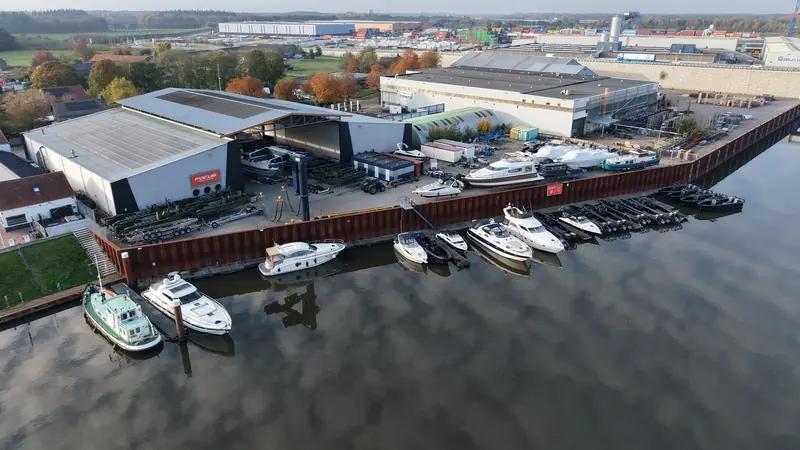
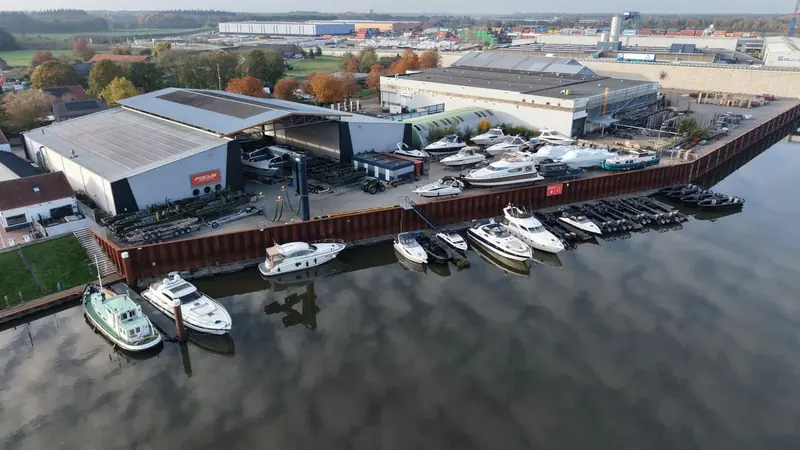
Cleaned-up aerial photo for hero, contact and slider; KvK, branch number and BTW on the site; Tilda publishing plan
Claude-Session: https://claude.ai/code/session_01EqonpUU16SJUeWH41v7eQd

Changed region(s): [[0.5, 0.28, 0.7188, 0.4044]]

diff --git a/boatlab-site/src/assets/site.js b/boatlab-site/src/assets/site.js
@@ -1,6 +1,6 @@
 /* ===== Settings: fill these in before going live ===== */
 const CONFIG = {
-  email: "info@boatlabservice.nl",              // TODO confirm address
+  email: "info@boatlabservice.nl",
   // Paste a Formspree form URL (https://formspree.io/f/xxxx) to receive bookings by email.
   formEndpoint: "",
   whatsapp: "31611742272",                     // WhatsApp number, digits only
@@ -9,8 +9,9 @@ const CONFIG = {
   instagram: "https://www.instagram.com/boatlab.nl/",
   tiktok: "https://www.tiktok.com/@boatlab.nl",
   // Dutch law requires the KvK number (and VAT number) on the website. Shown in the footer once filled in.
-  kvk: "",                                      // TODO KvK number
-  vat: "",                                      // TODO BTW/VAT number, e.g. NL000000000B01
+  kvk: "42025956",
+  branch: "000065289390",                      // Vestigingsnummer (KvK branch number)
+  vat: "NL869361193B01",
   maps: "https://maps.app.goo.gl/qaHuijy3DLmqtUjv5",
   // Shows grey placeholder cards in the reviews band until real reviews are added (preview only).
   reviewPlaceholders: false
@@ -862,7 +863,7 @@ document.addEventListener("pointerdown", e => {
 /* ---------- contact details ---------- */
 $$(".js-email").forEach(e => e.textContent = CONFIG.email);
 $$(".js-email-link").forEach(a => a.href = "mailto:" + CONFIG.email);
-$$(".js-kvk").forEach(e => { if (CONFIG.kvk) e.innerHTML = "<br>KvK: " + CONFIG.kvk; });
+$$(".js-kvk").forEach(e => { e.innerHTML = [CONFIG.kvk && "<br>KvK: " + CONFIG.kvk, CONFIG.vat && "<br>" + t("footer.vat") + ": " + CONFIG.vat].filter(Boolean).join(""); });
 $$(".js-ig").forEach(a => a.href = CONFIG.instagram);
 $$(".js-tt").forEach(a => a.href = CONFIG.tiktok);
 $$(".js-maps").forEach(a => a.href = CONFIG.maps);

diff --git a/boatlab-site/src/sections/hero.html b/boatlab-site/src/sections/hero.html
@@ -13,7 +13,7 @@
     </div>
     <div class="hero-media load d3">
       <div class="hero-frame">
-        <img src="img/hero-aerial.jpg" alt="The BoatLab yard in Wanssum from the air: the Focus Marine Center hall, the 30-tonne crane, boats on the quay and the harbour on the Maas" width="2400" height="1350" fetchpriority="high">
+        <img src="img/hero-aerial.jpg" alt="The BoatLab yard in Wanssum from the air: the Focus Marine Center hall, the 30-tonne crane, boats on the quay and the harbour on the Maas" width="2000" height="1125" fetchpriority="high">
         <div class="pins" id="heroPins">
           <div class="pin c5" data-x="24" data-y="30" data-n="1" style="--len:36px"><b class="num">1</b><span class="chip"><span class="ico"><svg><use href="#i-hall"/></svg></span><span><b data-i18n="chip.hall">Indoor hall</b><span data-i18n="chip.hall2">work in any weather</span></span></span></div>
           <div class="pin c4 below" data-x="27.5" data-y="40" data-n="2" style="--len:52px"><b class="num">2</b><span class="chip"><span class="ico f"><img src="img/logo-focus.png" alt="" width="500" height="89"></span><span><b data-i18n="chip.focus">Focus Marine Center</b><span data-i18n="chip.focus2">our partner yard</span></span></span></div>

diff --git a/boatlab-site/build.py b/boatlab-site/build.py
@@ -244,7 +244,9 @@ def jsonld_business(data, lang):
         "hasOfferCatalog": {"@type": "OfferCatalog", "name": tr(data, lang, "nav.services"), "itemListElement": services},
     }
     if data["CONFIG"].get("kvk"):
-        d["identifier"] = {"@type": "PropertyValue", "propertyID": "KvK", "value": data["CONFIG"]["kvk"]}
+        d["identifier"] = [{"@type": "PropertyValue", "propertyID": "KvK", "value": data["CONFIG"]["kvk"]}]
+        if data["CONFIG"].get("branch"):
+            d["identifier"].append({"@type": "PropertyValue", "propertyID": "Vestigingsnummer", "value": data["CONFIG"]["branch"]})
     if data["CONFIG"].get("vat"):
         d["vatID"] = data["CONFIG"]["vat"]
     return d
@@ -352,6 +354,8 @@ def page_html(data, lang, name, nav_id, body, title, desc, css, js, extra_ld="",
 """
     doc = translate(doc, data, lang)
     doc = prerender(doc, data, lang)
+    reg = " · ".join(x for x in [data["CONFIG"].get("kvk") and f'{tr(data, lang, "footer.kvk")} {data["CONFIG"]["kvk"]}', data["CONFIG"].get("vat") and f'{tr(data, lang, "footer.vat")} {data["CONFIG"]["vat"]}'] if x)
+    doc = doc.replace('<span id="regIds"></span>', f'<span id="regIds">{reg}</span>')
     return doc
 
 

diff --git a/PLAN.md b/PLAN.md
@@ -109,17 +109,44 @@ Report: https://claude.ai/artifact/9pUW5FMtJe9bpG48tWsxGV. Main findings, in pri
 8. Ads plan: brand campaign now; antifouling Feb–May; winter storage Sep–Nov; NL + DE, 40 km + NRW border; €15–25/day per language to start.
 9. Winter & dry storage added as the 15th service with its own page (30 Oct), worded as "on the quay, or indoors when space allows". Owner to confirm the offer and wording.
 
-## Publishing: Tilda and Claude
+## Publishing to Tilda (next big step)
 
-Goal: a proper, working page online as soon as possible, so visitors never land on an empty or broken page.
+Goal: boatlabservice.nl shows the new site, the **existing Tilda pages for marketing quizzes keep their URLs** so ads on social
+platforms still land where they should, and the form and tracking work end to end.
 
-- [ ] **Figure out how to connect Tilda and Claude.** Find the best way for Claude to get the site onto Tilda
-      (Tilda has no Claude connector yet; options: paste the generated `tilda/` pages into Tilda HTML blocks by hand,
-      Tilda's API (business plan, read-only export), a Zapier connection, or hosting the static `dist/` site elsewhere).
-- [ ] **Decide the publishing route** and write the steps down here, so every update follows the same path.
-- [ ] **Put a decent version live quickly** (even before every item below is finished), and replace any placeholder/default page on boatlabservice.nl.
-- [ ] **Check the live site works**: all pages, language switch, booking form, phone links, on mobile and desktop.
-- [ ] Keep the Claude preview link in step with what is live.
+**Step 0: inventory of what is on Tilda now (owner + Claude, 30 min)**
+- [ ] List every page in the Tilda project with its URL (Site settings → Pages). Mark which ones are used by running ads or posted links (quizzes, landing pages).
+- [ ] Note the current Tilda plan (Personal / Business) and whether the domain boatlabservice.nl is already connected to Tilda.
+- [ ] Export the quiz pages' current URLs into this file so nothing is lost. Those URLs are frozen: we never rename or delete them.
+
+**Step 1: decide the hosting route (recommendation below)**
+- Option A, everything in Tilda: paste each page of `boatlab-site/tilda/` into a Tilda page as one HTML block (T123), upload `img/`, `video/`,
+  `fonts/`, `assets/` to Tilda's file storage and rewrite the paths. Works on every Tilda plan, keeps one admin. Downsides: 36 pages to paste
+  and re-paste after every change, Tilda adds its own scripts, and URL folders (`/nl/`, `/de/`) must be written as Tilda page addresses
+  (Tilda allows `nl/antifouling` style addresses; verify on the current plan).
+- Option B (recommended), static host + Tilda side by side: publish `boatlab-site/dist/` as-is to a static host (Cloudflare Pages or Netlify,
+  free, deploys automatically from GitHub on every push). Point boatlabservice.nl at it. Keep the Tilda project on a subdomain
+  (e.g. `go.boatlabservice.nl` or `quiz.boatlabservice.nl`) and add redirects on the new site from every old quiz URL to its new address,
+  so old ad links keep working. Downsides: two places to log in; the owner needs a Cloudflare/Netlify account (Claude can set it up with the owner).
+- Either way the GitHub repo stays the single source; the preview artifact stays the review copy.
+
+**Step 2: forms and measurement (backend)**
+- [ ] Form delivery: Formspree (paid plan for photo uploads) → `CONFIG.formEndpoint`; or, on Option A, a native Tilda form with
+  email + Google Sheets receivers and a file field. Test with a real request incl. photo; confirm it arrives at info@boatlabservice.nl.
+- [ ] Google Tag Manager container → `CONFIG.gtmId`. Inside GTM: GA4 tag, Google Ads conversion tags for the events
+  `lead_form`, `contact_call`, `contact_whatsapp` (already pushed by the site), consent-aware. The site's cookie banner handles Consent Mode v2.
+- [ ] Google Search Console: verify the domain, submit `sitemap.xml`.
+- [ ] Google Business Profile: create, verify by postcard/video, add photos, services, hours; link to the site.
+
+**Step 3: go live (one afternoon)**
+- [ ] Publish all pages; check every URL in the three languages on phone and desktop; check the language switcher, form, call and WhatsApp buttons.
+- [ ] Redirect the old Tilda home page (and any old service pages) to the new ones; keep quiz URLs untouched or redirect them 1:1.
+- [ ] Set up `www` → non-www redirect (or the reverse) and HTTPS.
+- [ ] Turn off Tilda statistics/tracking on the quiz pages or add them to the consent banner's scope.
+- [ ] Sign data processing agreements (Tilda, form provider, Google) and add them to the privacy policy; have the policy checked.
+
+**Step 4: campaign landing pages**
+- Each campaign lands on a service page (`/nl/antifouling.html` etc.) or on a quiz page; UTM tags on every ad link; conversions visible in Ads within a week.
 
 ## Landing page for marketing campaigns
 
@@ -166,4 +193,5 @@ A separate page that people reach from ads and campaigns (Instagram, TikTok, Goo
 - **30 Oct 2026 (night)**: SEO/ads audit fixes. Site now built per language (`/`, `/nl/`, `/de/`) with hreflang, sitemap and robots; keyword titles,
   H1s and descriptions; LocalBusiness/Service/FAQ schema; five service landing pages ×3 languages; Winter & dry storage as new service;
   WhatsApp everywhere + sticky mobile call bar; consent banner + GTM hook + conversion events (inactive until `gtmId` is set); self-hosted fonts; WebP images.
-  Open for the owner: email, KvK, BTW, form endpoint, GTM id, Google Business Profile, reviews, price indications, geo coordinates check.
+  Open for the owner: form endpoint, GTM id, Google Business Profile, reviews, price indications, geo coordinates check.
+- **31 Oct 2026**: Cleaned-up hero photo from the owner in place (home, contact, facility slider, share image). KvK 42025956, vestigingsnummer 000065289390 and BTW NL869361193B01 added (footer, privacy page, structured data); email info@boatlabservice.nl confirmed. Tilda publishing plan written (above).

diff --git a/README.md b/README.md
@@ -1,6 +1,6 @@
 # BoatLab website (boatlabservice.nl)
 
-Website for **Boatlab BV / BoatLab Yacht Services**, Geijsterseweg 10, 5861 BL Wanssum (NL),
+Website for **Boatlab B.V. / BoatLab Yacht Services** (KvK 42025956, BTW NL869361193B01), Geijsterseweg 10, 5861 BL Wanssum (NL),
 in partnership with Focus Marine Center. Phone +31 6 11742272. Instagram and TikTok: @boatlab.nl.
 
 - Languages: English at `/`, Dutch at `/nl/`, German at `/de/`. Every page exists three times with the texts written into the HTML
@@ -48,8 +48,6 @@ To change text: edit the dictionaries in `src/assets/site.js` (keep EN, NL and D
 
 ## Still to do
 
-- [ ] **Email address** for bookings and privacy questions. `CONFIG.email` is still the placeholder `info@boatlabservice.nl`.
-- [ ] **KvK and VAT (BTW) numbers**: fill `CONFIG.kvk` and `CONFIG.vat` (shown in the footer and privacy page, required by Dutch law).
 - [ ] **Booking delivery**: set `CONFIG.formEndpoint` (Formspree with file uploads, or a Make/Zapier webhook) or rebuild as a Tilda form with a file field. Until then the form shows the request for the visitor to email.
 - [ ] **Measurement**: create a Google Tag Manager container and put its id in `CONFIG.gtmId`; the consent banner and conversion events (`lead_form`, `contact_call`, `contact_whatsapp`) are already in place.
 - [ ] **Reviews**: paste real Google reviews into `REVIEWS` in `site.js`; the home page band stays hidden while it is empty.
